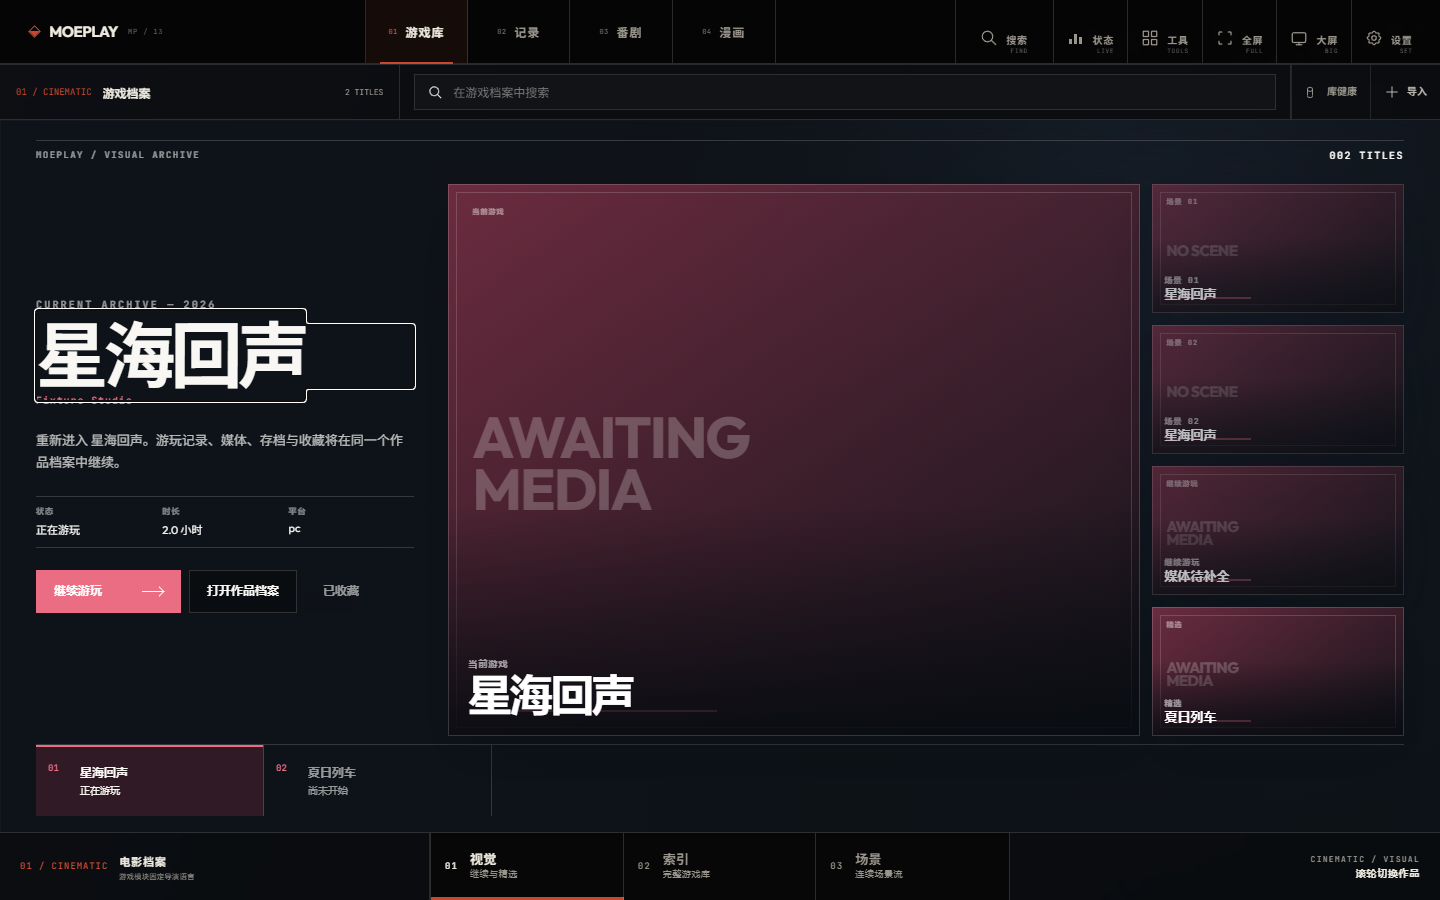
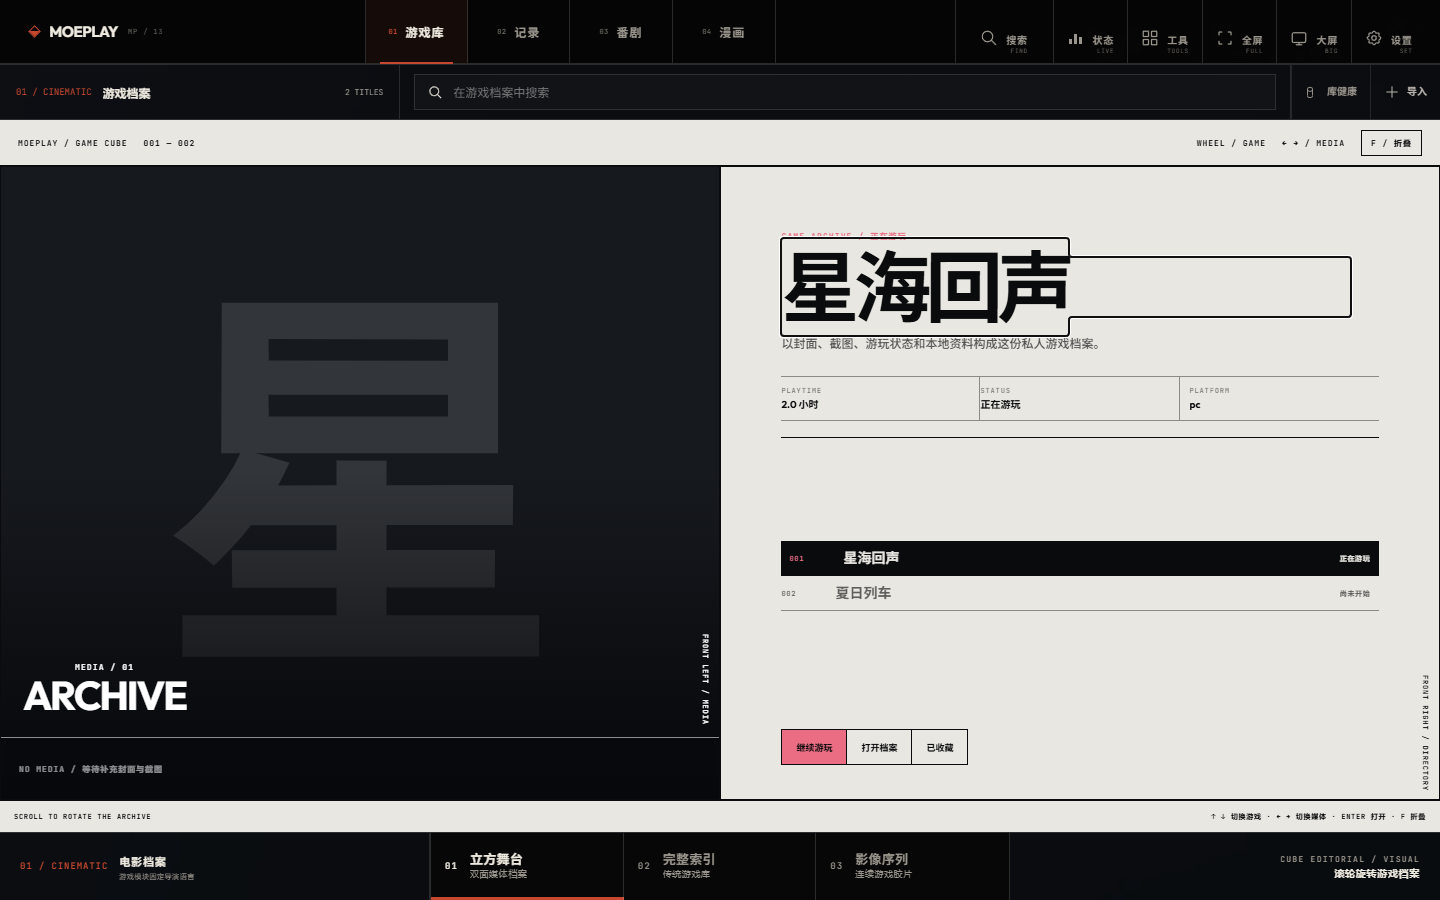
test: refresh v0.13.5 visual baselines

diff --git a/tests/visual/library-keyboard-focus.spec.ts b/tests/visual/library-keyboard-focus.spec.ts
@@ -32,7 +32,7 @@ test.use({
 
 test.describe("P1-02 game library keyboard and focus", () => {
   test("detail closes to the originating card and restores virtual scroll", async ({ appPage: page }) => {
-    await page.getByRole("button", { name: /索引.*完整游戏库/ }).click();
+    await page.getByRole("button", { name: /完整索引.*传统游戏库/ }).click();
     await expect(page.getByTestId("all-games-panel")).toBeVisible();
 
     const scroll = page.getByTestId("game-library-scroll");
@@ -76,7 +76,7 @@ test.describe("P1-02 game library keyboard and focus", () => {
   });
 
   test("delete confirmation defaults to Cancel and returns focus safely", async ({ appPage: page }) => {
-    await page.getByRole("button", { name: /索引.*完整游戏库/ }).click();
+    await page.getByRole("button", { name: /完整索引.*传统游戏库/ }).click();
     await expect(page.getByTestId("all-games-panel")).toBeVisible();
 
     const deleteButton = page.getByRole("button", { name: /删除 游戏 001/ });
@@ -102,4 +102,3 @@ test.describe("P1-02 game library keyboard and focus", () => {
     await expect(search).toHaveValue("");
   });
 });
-